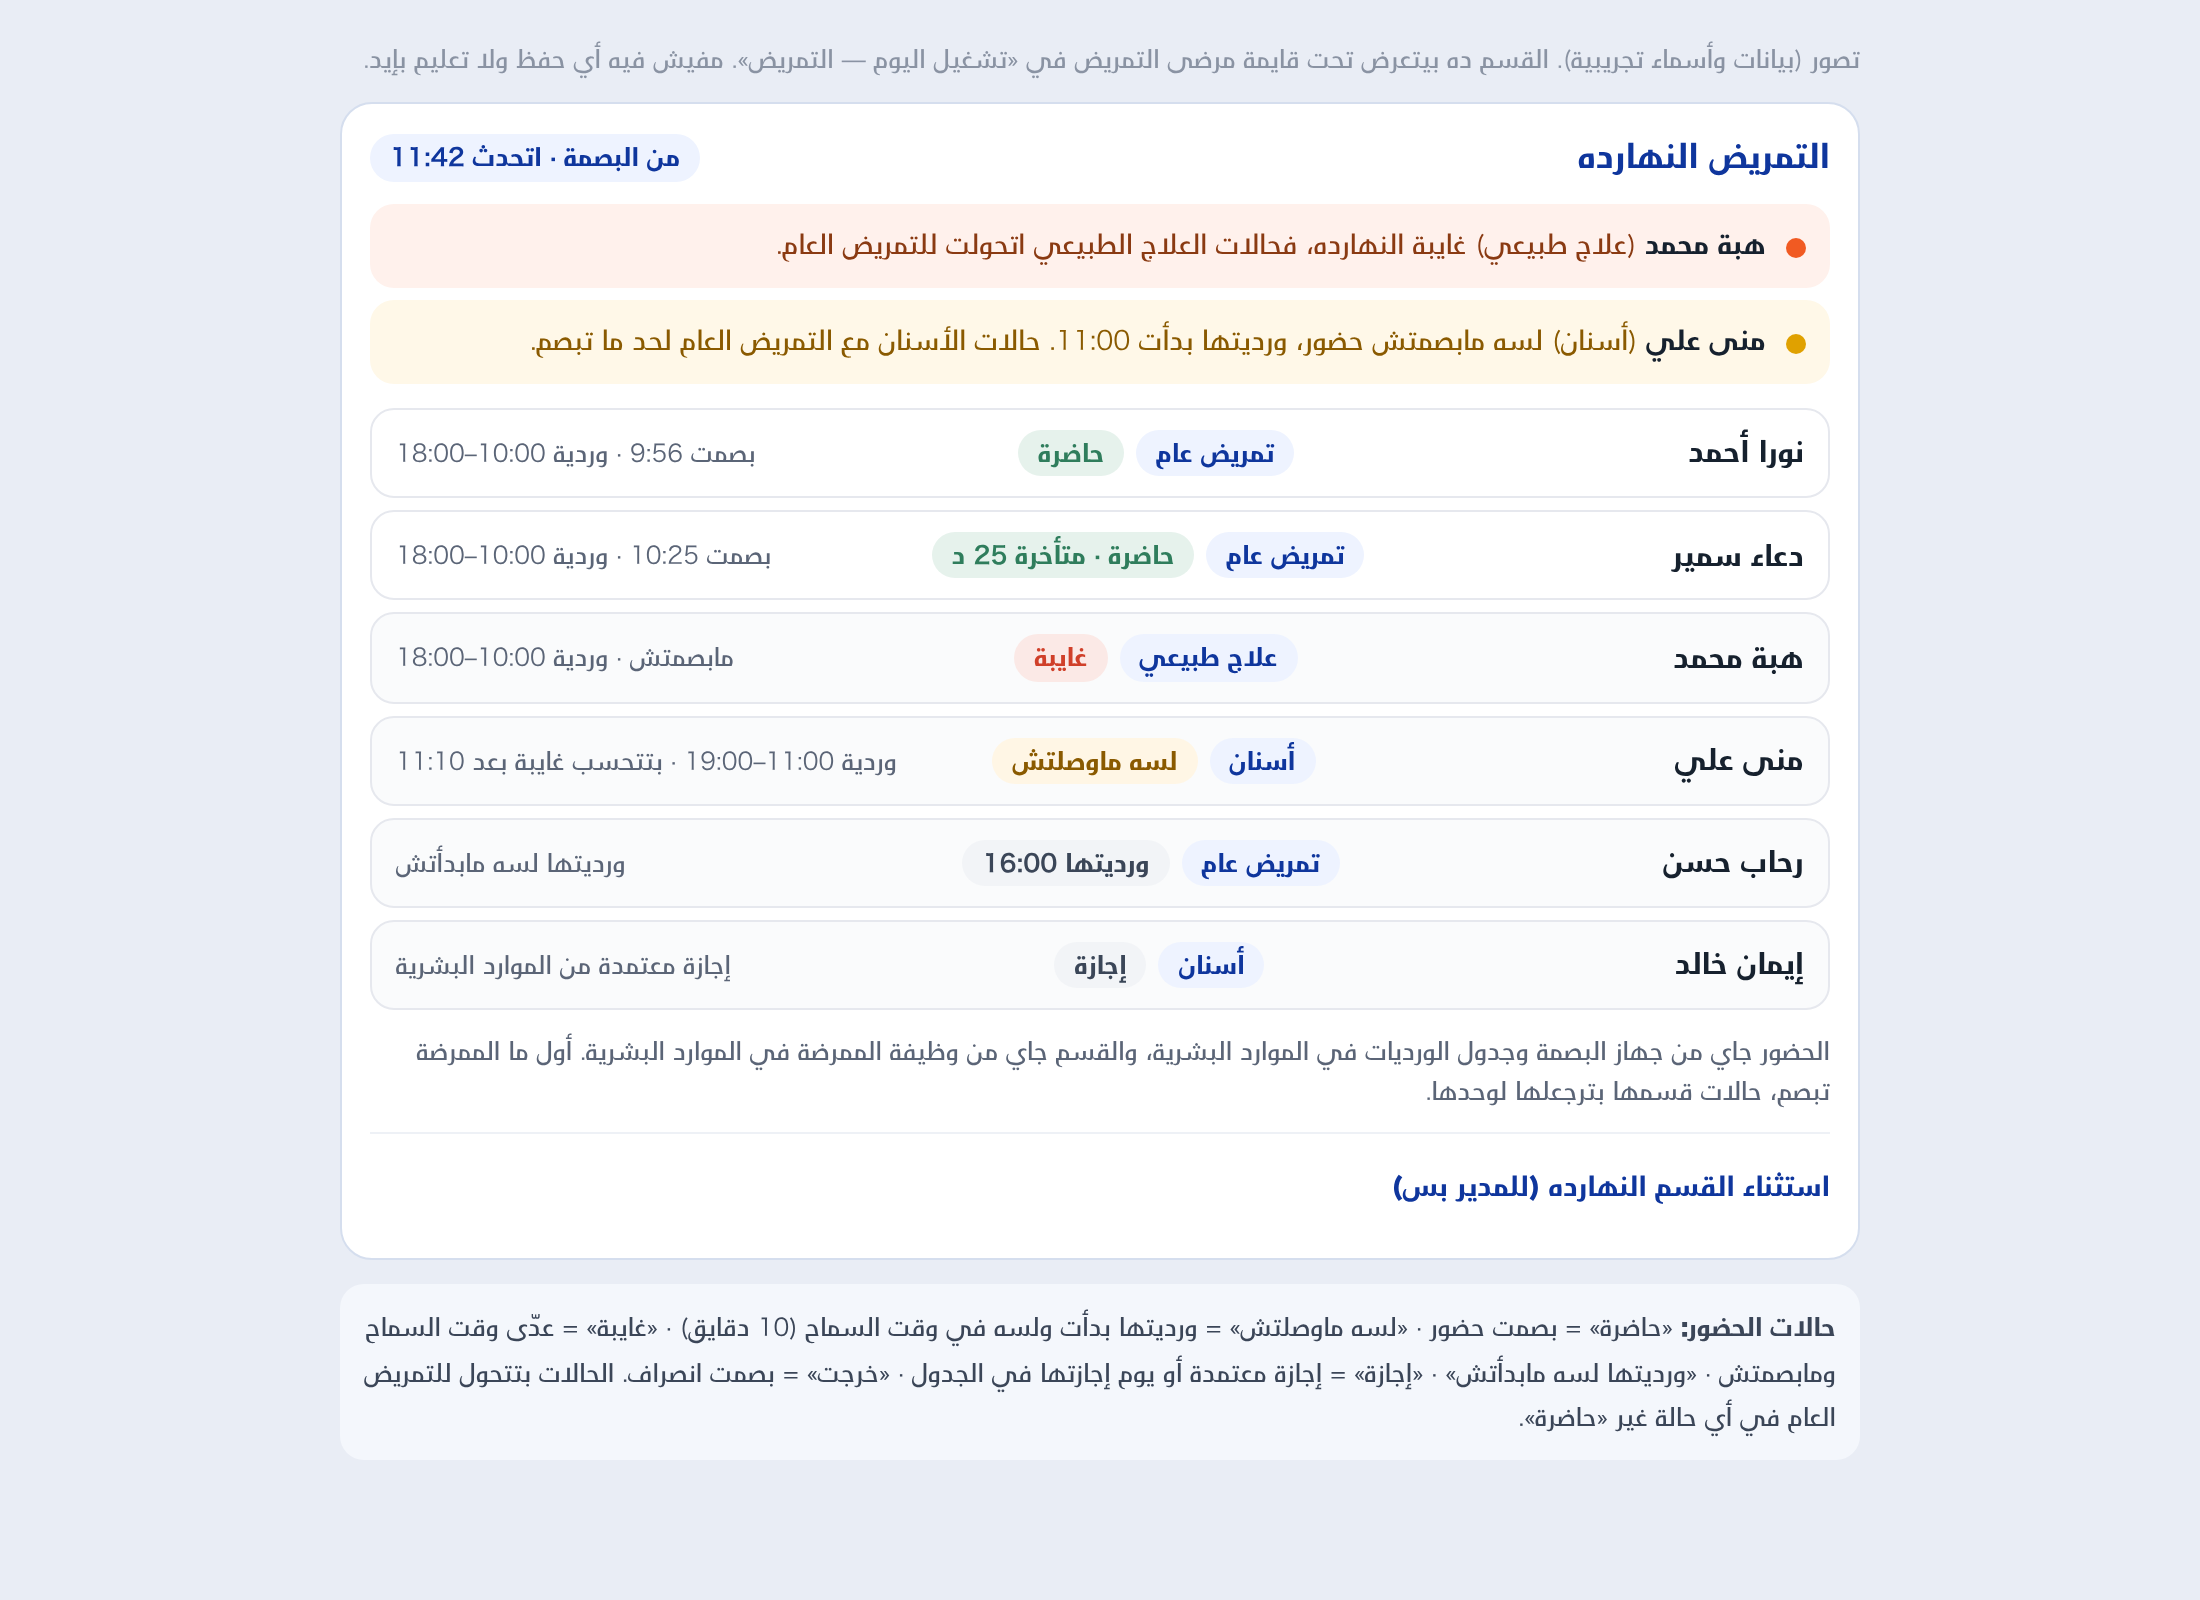
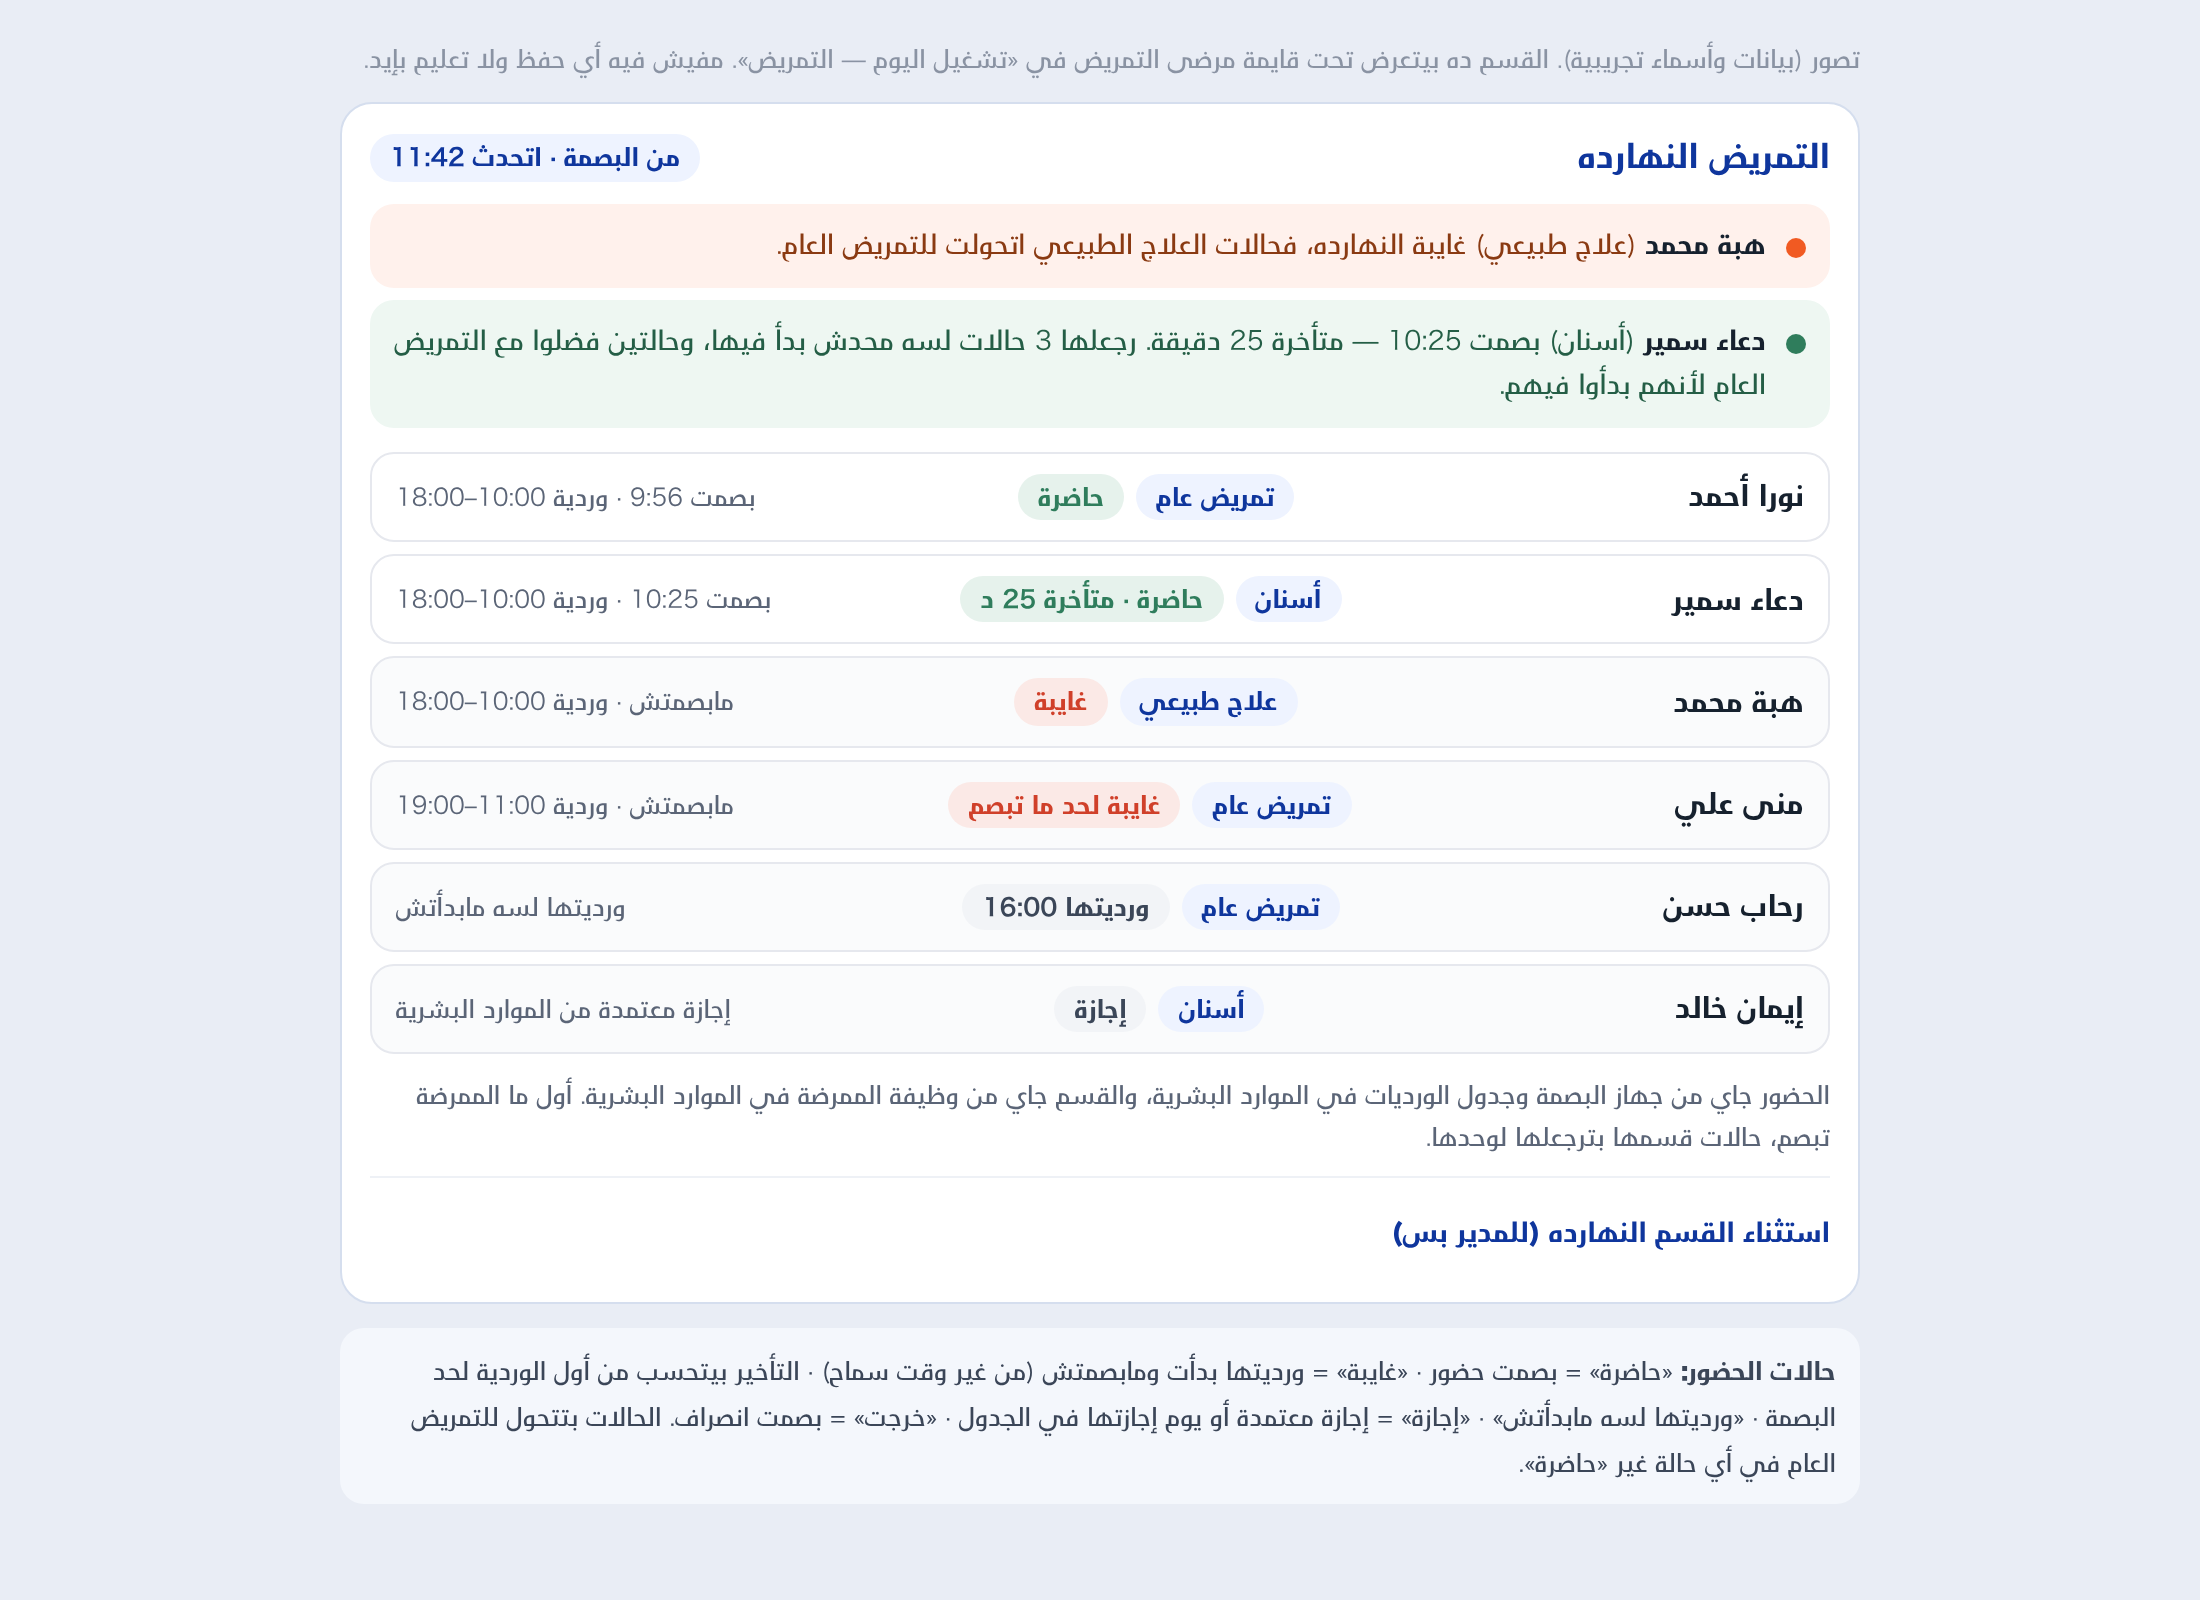
Mockup: no grace, cases return on clock-in
Claude-Session: https://claude.ai/code/session_01UqVZHa1WNN8bEGUYBvTA8M

diff --git a/docs/ui-references/mockups/nursing-attendance-routing.html b/docs/ui-references/mockups/nursing-attendance-routing.html
@@ -16,6 +16,7 @@ body{background:#e9edf5;margin:0;padding:20px 12px;color:#16212E}
 .rt.r{background:#FFF1EC;color:#8A3A12}.rt.r i{background:#F15A22}
 .rt.a{background:#FFF8E8;color:#8A5A00}.rt.a i{background:#E0A100}
 .rt b{color:#16212E}
+.rt.g{background:#EEF7F2;color:#245E46}.rt.g i{background:#2F7D5C}
 .list{display:grid;gap:6px;margin-top:12px}
 .nr{display:grid;grid-template-columns:minmax(0,1fr) auto;gap:4px 10px;align-items:center;padding:10px 12px;border:1px solid #E6E8EE;border-radius:12px}
 .nr b{font-size:14px;overflow-wrap:anywhere}
@@ -36,13 +37,13 @@ details.ex summary{cursor:pointer;color:#0F369D;font-weight:700;font-size:13px;m
  <div class="hd"><h4>التمريض النهارده</h4><span class="chip b">من البصمة · اتحدث 11:42</span></div>
  <div class="route">
   <div class="rt r"><i></i><span><b>هبة محمد</b> (علاج طبيعي) غايبة النهارده، فحالات العلاج الطبيعي اتحولت للتمريض العام.</span></div>
-  <div class="rt a"><i></i><span><b>منى علي</b> (أسنان) لسه مابصمتش حضور، ورديتها بدأت 11:00. حالات الأسنان مع التمريض العام لحد ما تبصم.</span></div>
+  <div class="rt g"><i></i><span><b>دعاء سمير</b> (أسنان) بصمت 10:25 — متأخرة 25 دقيقة. رجعلها 3 حالات لسه محدش بدأ فيها، وحالتين فضلوا مع التمريض العام لأنهم بدأوا فيهم.</span></div>
  </div>
  <div class="list">
   <div class="nr"><b>نورا أحمد</b><div class="meta"><span class="chip b">تمريض عام</span><span class="chip g">حاضرة</span></div><span class="when">بصمت 9:56 · وردية 10:00–18:00</span></div>
-  <div class="nr"><b>دعاء سمير</b><div class="meta"><span class="chip b">تمريض عام</span><span class="chip g">حاضرة · متأخرة 25 د</span></div><span class="when">بصمت 10:25 · وردية 10:00–18:00</span></div>
+  <div class="nr"><b>دعاء سمير</b><div class="meta"><span class="chip b">أسنان</span><span class="chip g">حاضرة · متأخرة 25 د</span></div><span class="when">بصمت 10:25 · وردية 10:00–18:00</span></div>
   <div class="nr off"><b>هبة محمد</b><div class="meta"><span class="chip b">علاج طبيعي</span><span class="chip r">غايبة</span></div><span class="when">مابصمتش · وردية 10:00–18:00</span></div>
-  <div class="nr off"><b>منى علي</b><div class="meta"><span class="chip b">أسنان</span><span class="chip a">لسه ماوصلتش</span></div><span class="when">وردية 11:00–19:00 · بتتحسب غايبة بعد 11:10</span></div>
+  <div class="nr off"><b>منى علي</b><div class="meta"><span class="chip b">تمريض عام</span><span class="chip r">غايبة لحد ما تبصم</span></div><span class="when">مابصمتش · وردية 11:00–19:00</span></div>
   <div class="nr off"><b>رحاب حسن</b><div class="meta"><span class="chip b">تمريض عام</span><span class="chip">ورديتها 16:00</span></div><span class="when">ورديتها لسه مابدأتش</span></div>
   <div class="nr off"><b>إيمان خالد</b><div class="meta"><span class="chip b">أسنان</span><span class="chip">إجازة</span></div><span class="when">إجازة معتمدة من الموارد البشرية</span></div>
  </div>
@@ -53,5 +54,5 @@ details.ex summary{cursor:pointer;color:#0F369D;font-weight:700;font-size:13px;m
  </details>
 </section>
 
-<p class="legend"><b>حالات الحضور:</b> «حاضرة» = بصمت حضور · «لسه ماوصلتش» = ورديتها بدأت ولسه في وقت السماح (10 دقايق) · «غايبة» = عدّى وقت السماح ومابصمتش · «ورديتها لسه مابدأتش» · «إجازة» = إجازة معتمدة أو يوم إجازتها في الجدول · «خرجت» = بصمت انصراف. الحالات بتتحول للتمريض العام في أي حالة غير «حاضرة».</p>
+<p class="legend"><b>حالات الحضور:</b> «حاضرة» = بصمت حضور · «غايبة» = ورديتها بدأت ومابصمتش (من غير وقت سماح) · التأخير بيتحسب من أول الوردية لحد البصمة · «ورديتها لسه مابدأتش» · «إجازة» = إجازة معتمدة أو يوم إجازتها في الجدول · «خرجت» = بصمت انصراف. الحالات بتتحول للتمريض العام في أي حالة غير «حاضرة».</p>
 </div></body></html>
